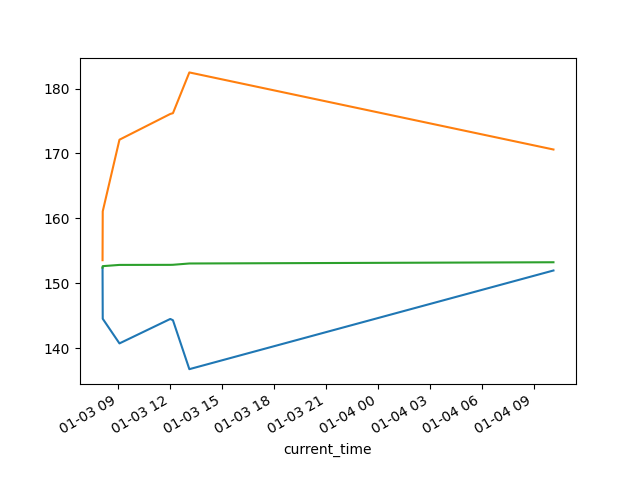
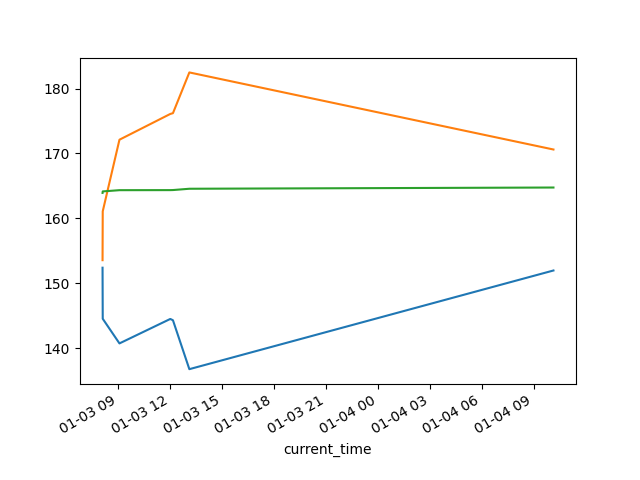
changed starting price on expected value

Changed region(s): [[0.1562, 0.5312, 0.875, 0.5625], [0.1562, 0.375, 0.875, 0.4062]]

diff --git a/graph.py b/graph.py
@@ -72,14 +72,15 @@ def plot_bal_time_series_graph():
     balance = df['balance'] + df['betfair_balance']
     plt.plot(balance)
 
-    for i, b in enumerate(balance):
-        balance[i] = b + calc_unfinished_races(i)
+    for i in range(len(balance)):
+        # print(balance[i], calc_unfinished_races(i))
+        balance[i] += calc_unfinished_races(i)
 
     plt.plot(balance)
 
     expected_return = df['expected_return'] + df['arbritrage_profit']
-    starting_balance = df['balance'].values[0] + df['betfair_balance'].values[0]
-    expected_return[0] += starting_balance
+    # starting_balance = df['balance'].values[0] + df['betfair_balance'].values[0]
+    expected_return[0] += STARTING_BALANCE
     expected_return.cumsum().plot()
 
     plt.gcf().autofmt_xdate()
